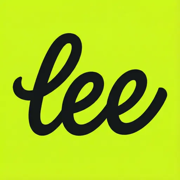
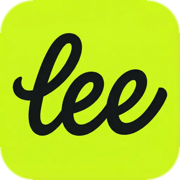
feat(#93): metadata-readme-assets (leesfield의 외부 노출 자산을 현재 브랜드 로고와 일관되게 맞춘다.) (#94)
* feat(#93): Validate asset and docs sync

* feat(#93): Replace landing README screenshot after animations finish

diff --git a/README.md b/README.md
@@ -1,4 +1,6 @@
-![leesfield logo](public/logo.webp)
+<p align="center">
+  <img src="public/apple-touch-icon.png" alt="leesfield rounded favicon" width="96" height="96">
+</p>
 
 <h1 align="center">
   <strong>leesfield</strong>
@@ -26,6 +28,7 @@
 ## 목차
 
 - [Quick Start](#quick-start)
+- [스크린샷](#스크린샷)
 - [주요 기능](#주요-기능)
 - [기술 스택](#기술-스택)
 - [설치 및 설정](#설치-및-설정)
@@ -52,6 +55,16 @@ pnpm db:prepare
 # 4. 개발 서버 실행
 pnpm dev
 ```
+
+## 스크린샷
+
+### 랜딩 페이지
+
+![leesfield landing page](public/screenshots/landing.png)
+
+### 이미지 생성 페이지
+
+![leesfield image generation page](public/screenshots/image-generation.png)
 
 ## 주요 기능
 
